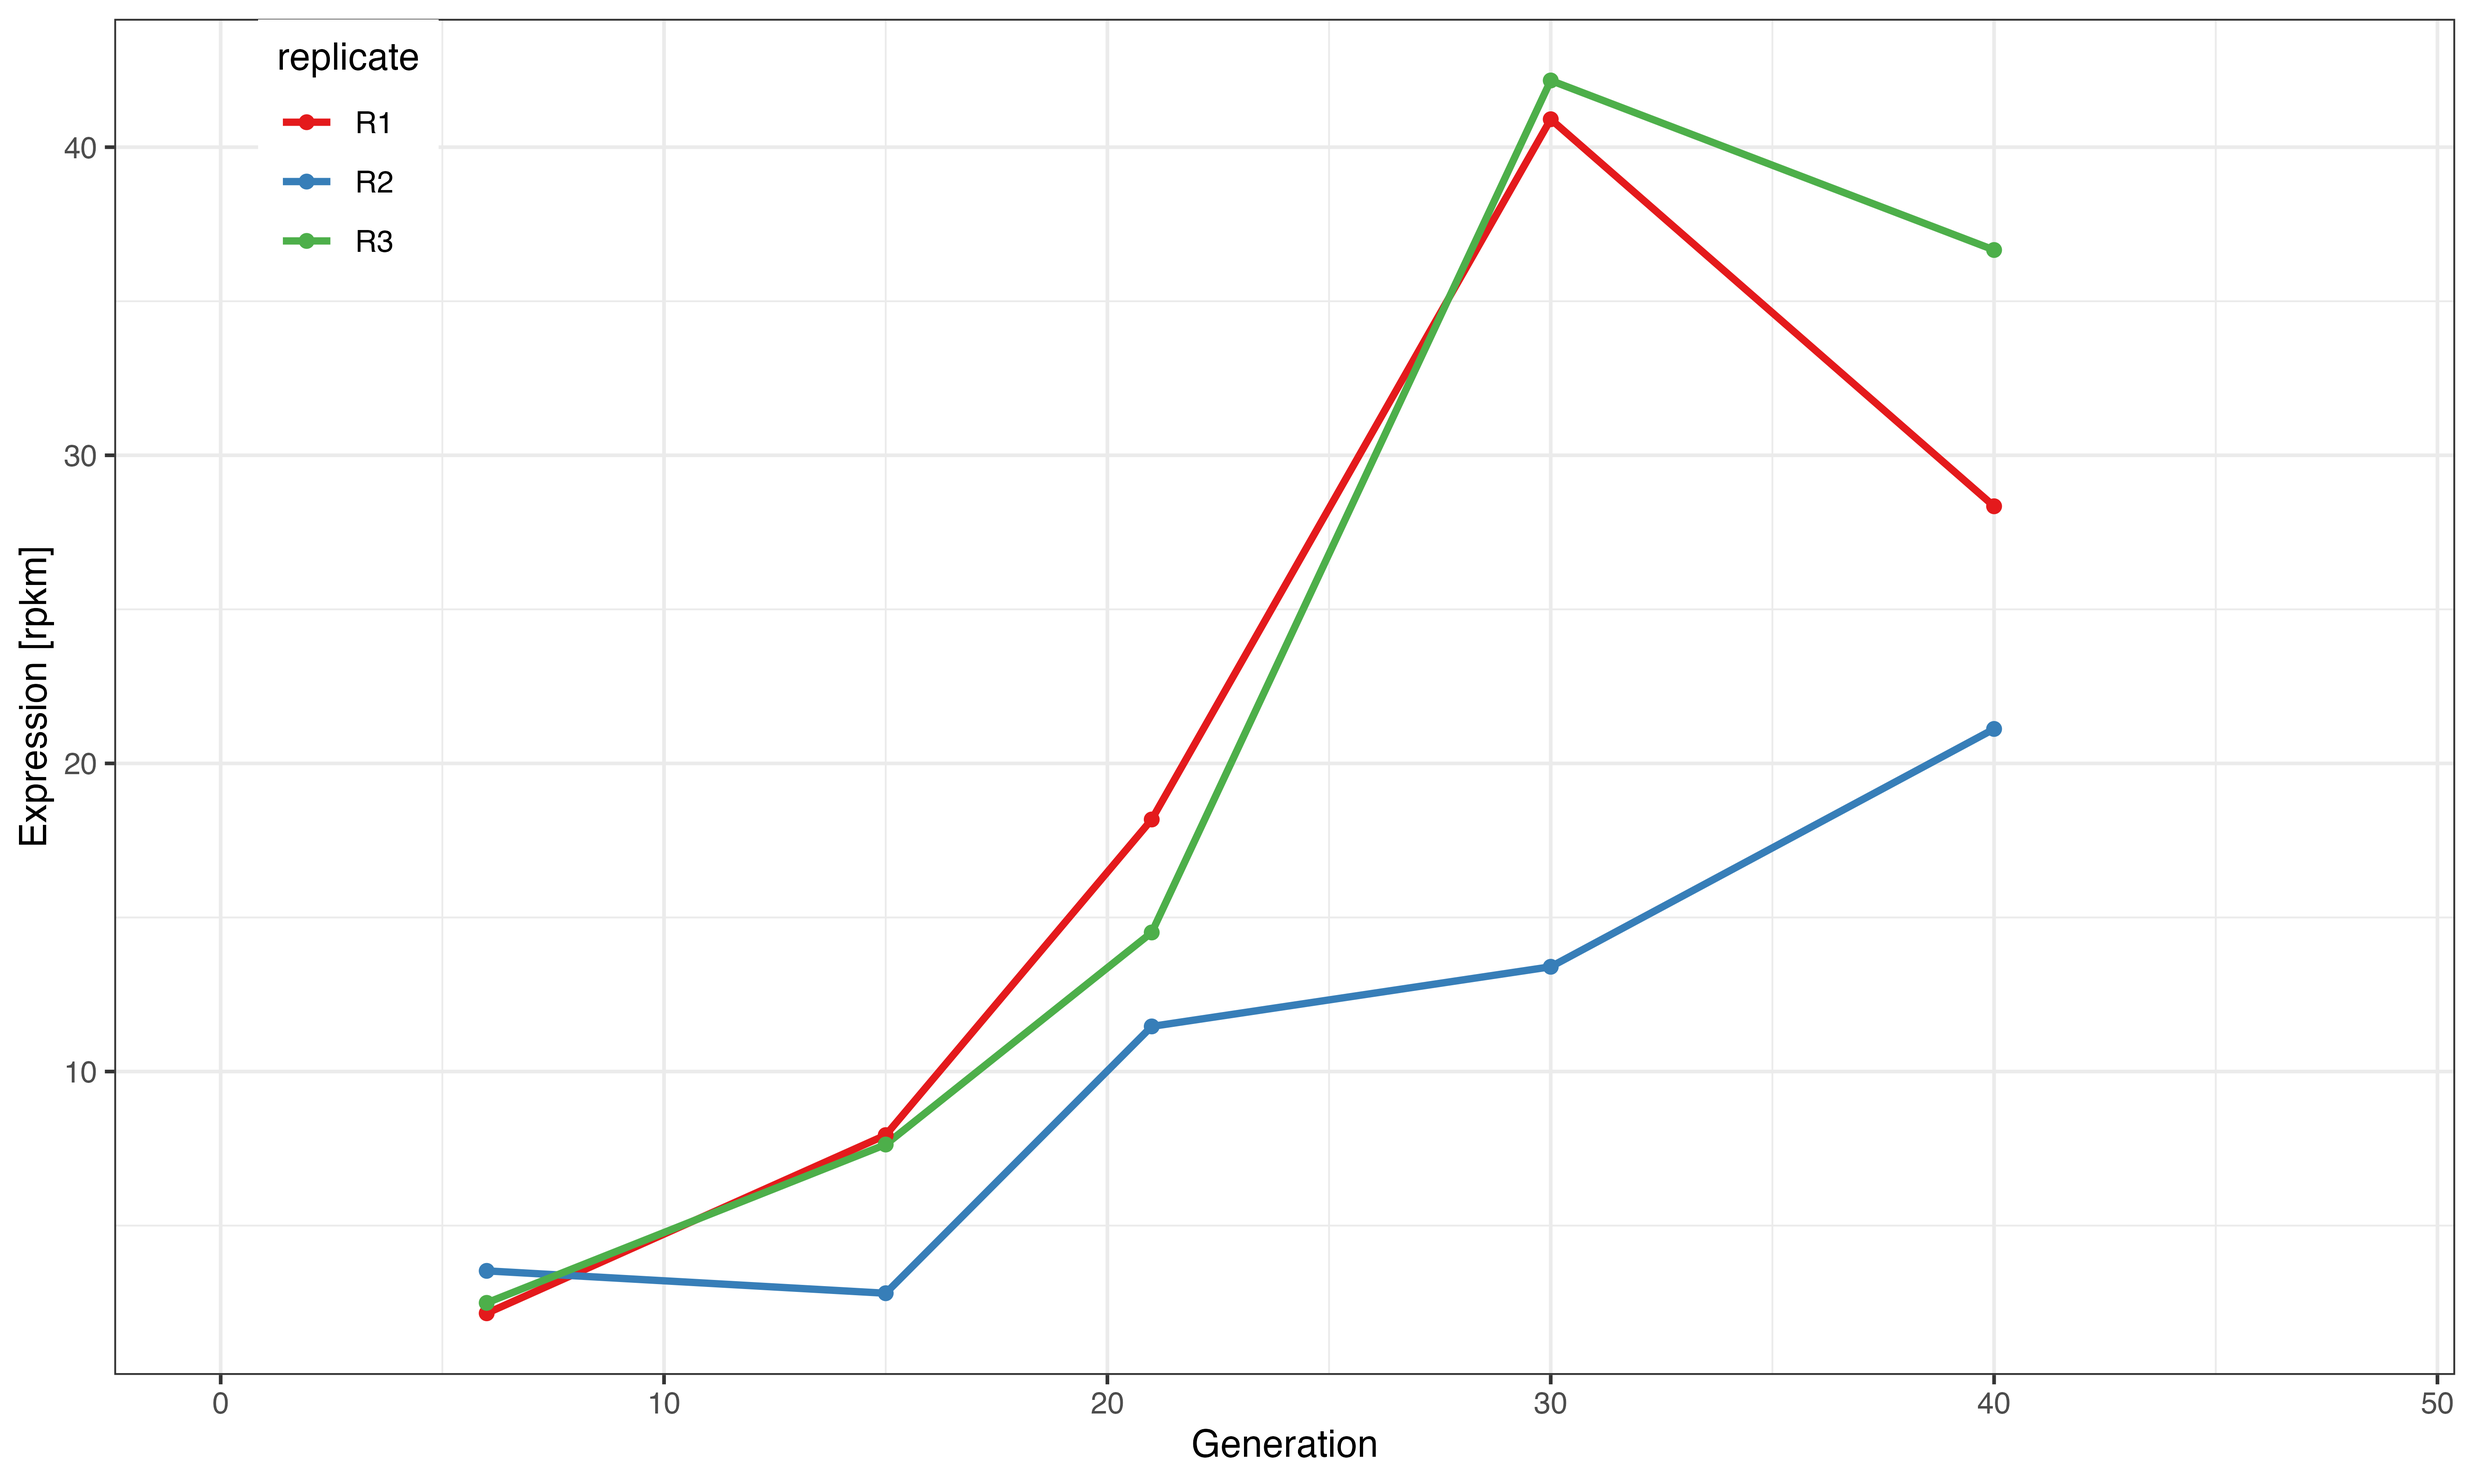
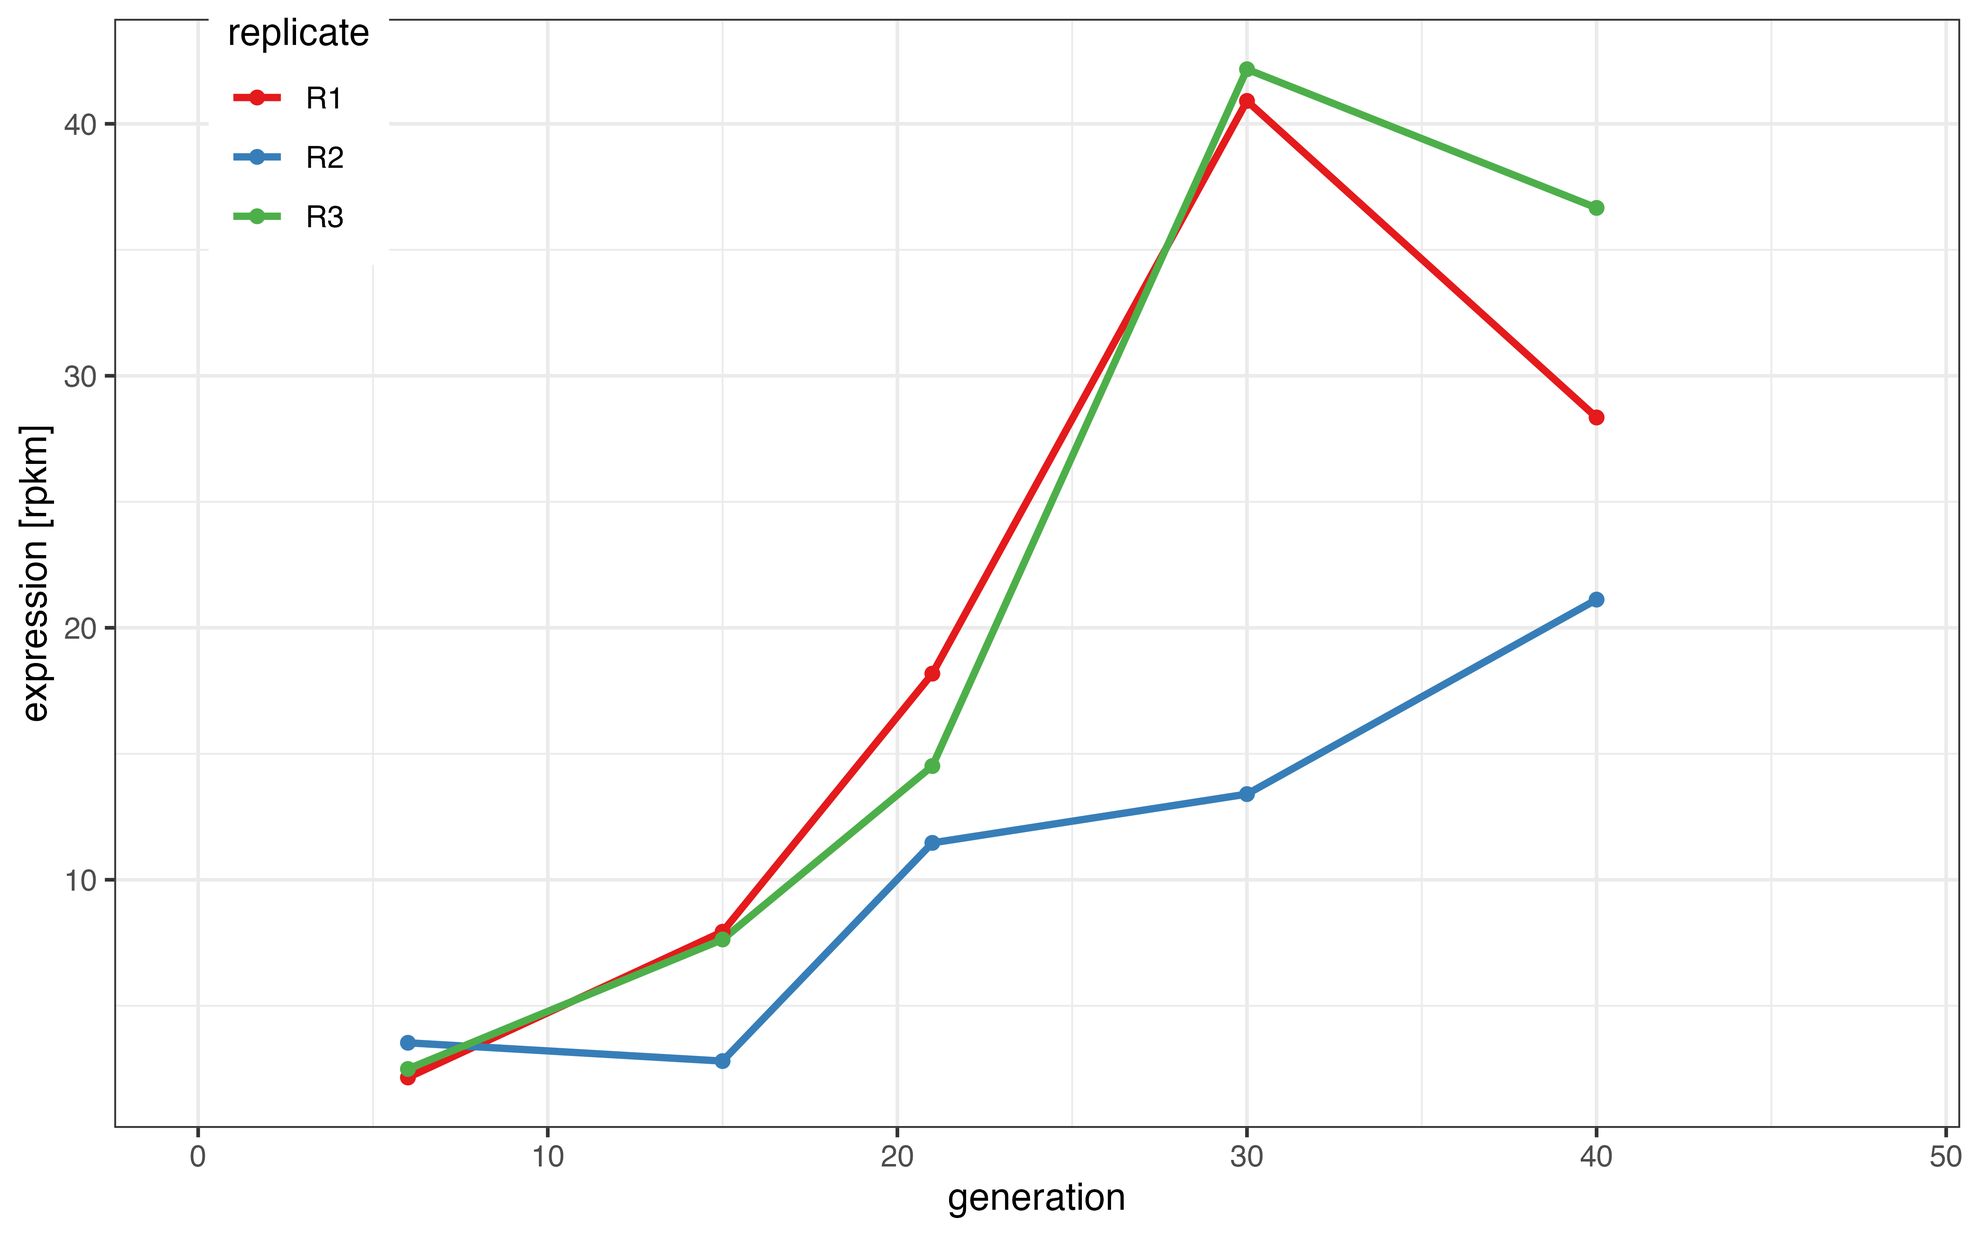
RNA analysis refinement.

diff --git a/rna/RNA_analysis.md b/rna/RNA_analysis.md
@@ -1,7 +1,7 @@
 RNA analysis
 ================
 Matthew Beaumont
-2023-06-21
+2023-06-23
 
 ``` bash
 knitr::opts_chunk$set(echo = TRUE)
@@ -332,8 +332,8 @@ transcript_to_gene <- c(
   "PPI251" = "P-element",
   "FBtr0083183_mRNA" = "spn-E",
   "FBtr0088034_mRNA" = "cuff",
-  "FBtr0086904_mRNA" = "Dcr-2",
-  "FBtr0087984_mRNA" = "Hen1",
+  "FBtr0086904_mRNA" = "dcr-2",
+  "FBtr0087984_mRNA" = "hen1",
   "FBtr0087189_mRNA" = "krimp",
   "FBtr0080497_mRNA" = "loqs",
   "FBtr0079489_mRNA" = "r2d2",
@@ -369,7 +369,7 @@ get_max_value <- function(gene) {
   max_values$Coverage[max_values$Gene == gene]
 }
 
-ggplot(data, aes(x = Position, y = Coverage, color = Type)) +
+cov_plot <- ggplot(data, aes(x = Position, y = Coverage, color = Type)) +
   geom_line() +
   facet_wrap(~ Gene, ncol = 7, scales = "free") +
   labs(x = "Position", y = "Coverage", color = "Type") +
@@ -377,12 +377,8 @@ ggplot(data, aes(x = Position, y = Coverage, color = Type)) +
   scale_y_continuous(expand = c(0, 0), limits = c(-max(data$Coverage), max(data$Coverage))) +
   guides(color = guide_legend(title = "Type")) +
   theme(legend.position = "bottom")
-```
 
-![](RNA_analysis_files/figure-gfm/unnamed-chunk-14-1.png)<!-- -->
-
-``` r
-ggsave("figs/mRNA_sense_antisense.png", width = 18, height = 10, bg = "white", dpi = 300)
+ggsave("figs/mRNA_sense_antisense.png", cov_plot, width = 18, height = 10, bg = "white", dpi = 300)
 
 knitr::include_graphics("figs/mRNA_sense_antisense.png")
 ```
@@ -451,47 +447,50 @@ mapped_reads_plot <- ggplot(overview, aes(x = Generation)) +
   facet_wrap(. ~ Replicate, ncol = 1) +
   labs(x = "Generation", y = "Read counts") +
   ggtitle("Mapped reads & mapped reads w/ min mq") +
-  scale_fill_manual(values = c("Mapped reads" = "steelblue", "Mapped reads w/ min mq" = "darkorange"),
+  scale_fill_manual(values = c("Mapped reads" = "darkseagreen3", "Mapped reads w/ min mq" = "khaki3"),
                     name = NULL,
                     breaks = c("Mapped reads", "Mapped reads w/ min mq"),
                     labels = c("Mapped reads", "Mapped reads w/ min mq"),
                     guide = guide_legend(reverse = TRUE)) +
-  theme_bw() +
-  scale_y_continuous(labels = label_number(scale = 1e-6, suffix = "M"))
+                    theme_bw() +
+                    theme(legend.position = "bottom") +
+                    scale_y_continuous(labels = label_number(scale = 1e-6, suffix = "M"))
 
 sense_antisense_gene_plot <- ggplot(overview, aes(x = Generation, y = SenseGene, fill = "Sense")) +
   geom_bar(stat = "identity") +
   geom_bar(aes(y = AntisenseGene, fill = "Antisense"), stat = "identity") +
   facet_wrap(. ~ Replicate, ncol = 1) +
-  labs(x = "Generation", y = "Read counts") +
+  labs(x = "Generation", y = NULL) +
   ggtitle("Sense/antisense gene read counts") +
-  scale_fill_manual(values = c("Sense" = "steelblue", "Antisense" = "darkorange"),
+  scale_fill_manual(values = c("Sense" = "lightblue", "Antisense" = "darksalmon"),
                     name = NULL,
                     breaks = c("Sense", "Antisense"),
                     labels = c("Sense", "Antisense"),
                     guide = guide_legend(reverse = TRUE)) +
-  theme_bw() +
-  scale_y_continuous(labels = label_number(scale = 1e-6, suffix = "M"))
+                    theme_bw() +
+                    theme(legend.position = "bottom") +
+                    scale_y_continuous(labels = label_number(scale = 1e-6, suffix = "M"))
 
 sense_antisense_pelement_plot <- ggplot(overview, aes(x = Generation, y = SensePelement, fill = "Sense")) +
   geom_bar(stat = "identity") +
   geom_bar(aes(y = AntisensePelement, fill = "Antisense"), stat = "identity") +
   facet_wrap(. ~ Replicate, ncol = 1) +
-  labs(x = "Generation", y = "Read counts") +
+  labs(x = "Generation", y = NULL) +
   ggtitle("Sense/antisense P-element read counts") +
-  scale_fill_manual(values = c("Sense" = "steelblue", "Antisense" = "darkorange"),
+  scale_fill_manual(values = c("Sense" = "lightblue", "Antisense" = "darksalmon"),
                     name = NULL,
                     breaks = c("Sense", "Antisense"),
                     labels = c("Sense", "Antisense"),
                     guide = guide_legend(reverse = TRUE)) +
-  theme_bw() +
-  scale_y_continuous(labels = label_number(scale = 1e-3, suffix = "k"))
+                    theme_bw() +
+                    theme(legend.position = "bottom") +
+                    scale_y_continuous(labels = label_number(scale = 1e-3, suffix = "k"))
 
-combined_plot <- cowplot::plot_grid(mapped_reads_plot, sense_antisense_gene_plot, sense_antisense_pelement_plot, ncol = 1)
+combined_plot <- cowplot::plot_grid(mapped_reads_plot, sense_antisense_gene_plot, sense_antisense_pelement_plot, ncol = 3)
 
-ggsave("figs/mRNA_overview.png", combined_plot, width = 6, height = 12, dpi = 300)
+ggsave("figs/mRNA_sum_stats.png", combined_plot, width = 20, height = 10, dpi = 600)
 
-knitr::include_graphics("figs/mRNA_overview.png")
+knitr::include_graphics("figs/mRNA_sum_stats.png")
 ```
 
 ``` r
@@ -516,15 +515,18 @@ for(i in 1:length(genes))
   
   s<-subset(a,strand=="se")
   as<-subset(a,strand=="ase")
+}
   
-  
-  plot <- ggplot() +
+mRNA_plot <- ggplot() +
     geom_polygon(data=s,mapping=aes(x=pos, y=cov), fill='grey', color='grey') +
     geom_polygon(data=as, aes(x=pos, y=-cov), fill='lightgrey', color='lightgrey')+
-    facet_grid(time~rep)
-  
-plot
-}
+    facet_grid(time~rep)+
+    ylab("coverage")+
+    xlab("position")
+
+ggsave("figs/mRNA_overview.png", mRNA_plot, width = 12, height = 6, dpi = 600)
+
+knitr::include_graphics("figs/mRNA_overview.png")
 ```
 
 # Lok - Wilcoxon Test
@@ -551,7 +553,7 @@ lok<-read.table("/Volumes/Data/Projects/dmelR2_p-ele/rna/run2/splicing-expressio
 
 names(lok)<-c("rep","time","tissue","strand","gene","pos","cov")
 a<-subset(lok,gene=="FBtr0081328_mRNA" & strand=="se")
-mc<-a %>% group_by(rep,time) %>% summarize(mcov=mean(cov))
+mc<-a %>% group_by(rep,time) %>% summarise(mcov=mean(cov))
 ```
 
     ## `summarise()` has grouped output by 'rep'. You can override using the `.groups`
@@ -644,6 +646,9 @@ samtools view $if/gt_R3G40.sort.bam | python $pyscript --sam - --sample-id R3-G4
 # cat *.txt| perl -pe 's/-/\t/'|perl -pe 's/-/\t/' > spli.forr
 ```
 
+And then we visualised both the P-element expression and the splicing of
+its’ three introns together in ggplot2.
+
 ``` r
 library(ggplot2)
 theme_set(theme_bw())
@@ -673,37 +678,26 @@ aspli$start<-aspli$start-1 # position inaccuracy, graph is more appealing
 aspli$keystart<-paste0(aspli$rep,"_",aspli$time,"_",aspli$start,"_",aspli$strand)
 aspli$keyend<-paste0(aspli$rep,"_",aspli$time,"_",aspli$end,"_",aspli$strand)
 
-
 aspli<-merge(x=aspli,y=a[,c("key","cov")],by.x="keystart",by.y="key")
 aspli<-merge(x=aspli,y=a[,c("key","cov")],by.x="keyend",by.y="key")
 aspli$size<-log(aspli$freq+1)
 
-
 a_s<-subset(aspli,strand=="se")
 a_as<-subset(aspli,strand=="ase")
-  
-  
-plot <- ggplot() +
+
+expr_spli_plot <- ggplot() +
     geom_polygon(data=s,mapping=aes(x=pos, y=cov), fill='grey', color='grey') +
     geom_polygon(data=as, aes(x=pos, y=-cov), fill='lightgrey', color='lightgrey')+
     geom_curve(data=a_s, mapping=aes(x=start, y=cov.x, xend=end, yend=cov.y,linewidth=size), curvature=-0.2, ncp=10, show.legend=FALSE)+
     geom_curve(data=a_as, mapping=aes(x=start, y=-cov.x, xend=end, yend=-cov.y,linewidth=size), curvature=0.2, ncp=10, show.legend=FALSE)+
-    facet_grid(time~rep)+scale_size(range=c(0.2,2))+xlab("Position")+ylab("Expression level [rpm]")
+    facet_grid(time~rep)+scale_size(range=c(0.2,2))+xlab("position")+ylab("expression level [rpm]")
 
+ggsave("figs/expr_spli.png", expr_spli_plot, width = 14, height = 14)
 
-plot(plot)
+knitr::include_graphics("figs/expr_spli.png")
 ```
 
-![](RNA_analysis_files/figure-gfm/unnamed-chunk-22-1.png)<!-- -->
-
-``` r
-outfile<-"/Volumes/Data/Projects/dmelR2_p-ele/rna/run2/splicing-expression/PPI251_wf.png"
-ggsave(filename = outfile, plot = plot, width = 14, height = 14)
-
-knitr::include_graphics("/Volumes/Data/Projects/dmelR2_p-ele/rna/run2/splicing-expression/PPI251_wf.png")
-```
-
-<img src="../../rna/run2/splicing-expression/PPI251_wf.png" width="4200" />
+<img src="figs/expr_spli.png" width="4200" />
 
 # P-element expression
 
@@ -764,21 +758,15 @@ resolution <- 600
 s<-ggplot()+geom_line(data=t,aes(x=generation,y=sense,color=replicate),linewidth=1)+
   geom_point(data=t,aes(x=generation,y=sense,color=replicate))+
   theme(strip.text=element_blank(),legend.position=c(0.1,0.9))+
-  ylab("Expression [rpkm]")+scale_colour_manual(values=tresrep)+xlim(0,48) +
-  xlab("Generation")
+  ylab("expression [rpkm]")+scale_colour_manual(values=tresrep)+xlim(0,48) +
+  xlab("generation")
 
-plot(s)
-```
-
-![](RNA_analysis_files/figure-gfm/unnamed-chunk-25-1.png)<!-- -->
-
-``` r
-ggsave("figs/P-ele_expression.png", plot = s, width = 10, height = 6, dpi = 600)
+ggsave("figs/P-ele_expression.png", plot = s, width = 8, height = 5, dpi = 600)
 
 knitr::include_graphics("figs/P-ele_expression.png")
 ```
 
-<img src="figs/P-ele_expression.png" width="6000" />
+<img src="figs/P-ele_expression.png" width="4800" />
 
 ## IVS3
 
@@ -815,15 +803,9 @@ t<-rbind(t,missingvalues)
 s<-ggplot()+geom_line(data=t,aes(x=generation,y=freq,color=rep),linewidth=1)+
   geom_point(data=t,aes(x=generation,y=freq,color=rep))+
   theme(strip.text=element_blank(),legend.position=c(0.1,0.9))+
-  ylab("Splicing level IVS3 [srpm]")+scale_colour_manual(values=colrep1)+xlim(0,48) +
-  xlab("Generation")
+  ylab("splicing level IVS3 [srpm]")+scale_colour_manual(values=colrep1)+xlim(0,48) +
+  xlab("generation")
 
-plot(s)
-```
-
-![](RNA_analysis_files/figure-gfm/unnamed-chunk-26-1.png)<!-- -->
-
-``` r
 ggsave("figs/IVS3.png", plot = s, width = 10, height = 6, dpi = 600)
 
 knitr::include_graphics("figs/IVS3.png")
@@ -863,18 +845,13 @@ missingvalues=data.frame(rep=c("R1","R2","R3"),generation=c(0,0,0),tissue=rep("w
 
 t<-rbind(t,missingvalues)
 
-s<-ggplot()+geom_line(data=t,aes(x=generation,y=freq,color=rep),linewidth=1)+
-  geom_point(data=t,aes(x=generation,y=freq,color=rep))+
-  theme(strip.text=element_blank(),legend.position=c(0.1,0.9))+
-  ylab("Splicing level IVS2 [rpm]")+scale_colour_manual(values=colrep2)+xlim(0,48) +
-  xlab("Generation")
+s<-ggplot()+geom_line(data=t,aes(x=generation,y=freq,color=rep),linewidth=1) +
+  geom_point(data=t,aes(x=generation,y=freq,color=rep)) +
+  theme(strip.text=element_blank(),legend.position=c(0.1,0.9)) +
+  ylab("splicing level IVS2 [rpm]") +
+  scale_colour_manual(values=colrep2)+xlim(0,48) +
+  xlab("generation")
 
-plot(s)
-```
-
-![](RNA_analysis_files/figure-gfm/unnamed-chunk-27-1.png)<!-- -->
-
-``` r
 ggsave("figs/IVS2.png", plot = s, width = 10, height = 6, dpi = 600)
 
 knitr::include_graphics("figs/IVS2.png")
@@ -920,12 +897,6 @@ s<-ggplot()+geom_line(data=t,aes(x=generation,y=freq,color=rep),linewidth=1,lty=
   ylab("Splicing level IVS1 [rpm]")+scale_colour_manual(values=colrep3)+xlim(0,48) +
   xlab("Generation")
 
-plot(s)
-```
-
-![](RNA_analysis_files/figure-gfm/unnamed-chunk-28-1.png)<!-- -->
-
-``` r
 ggsave("figs/IVS1.png", plot = s, width = 10, height = 6, dpi = 600)
 
 knitr::include_graphics("figs/IVS1.png")
@@ -1029,7 +1000,7 @@ dflm3<-data.frame(gene=rownames(lm3$table),logfc=lm3$table$logFC, pval=lm3$table
 lmvs2<-edgemeext(eg30R1,eg40R1,eg30R2,eg40R2,eg30R3,eg40R3)
 dflmvs2<-data.frame(gene=rownames(lmvs2$table),logfc=lmvs2$table$logFC, pval=lmvs2$table$PValue,fdr=p.adjust(as.numeric(lmvs2$table$PValue),method="BH"))
 
-#### Coloring FDR 
+#### Colouring FDR 
 fdr<-0.01
 fdr2<-0.001
 
